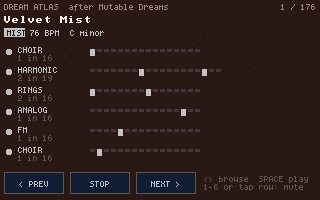
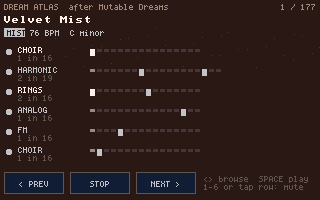
dreamatlas: Cassette Dreams 2
C major at 74, Dm9 G9 Cmaj9 Am9: a lazy rimshot with ghosts, a soft kick
ducking the mix, a warm upright, clean jazz guitar stabbing rootless 3-7-9
chords, a vibraphone 5 in 13 deep in the echo, crackle, and a more worn
cassette (wow .75, flutter .45, sat .55). Breakdowns swell the echo.

diff --git a/tools/carts/dreamatlas.c b/tools/carts/dreamatlas.c
@@ -9,7 +9,7 @@
   "lineage": "A port of the BIOME atlas from Mutable Dreams 1.4 (Kid Bunka / Christoph Link, free firmware for the M-VAVE FM-1, itself built on Mutable Instruments' Plaits/Rings/Elements). The 157 scenes are the upstream's own factory data (MIT), generated into runtime/dreamatlas/biomes.h; the sequencer (Euclid hits/length/rotate per track, seeded rolls, chord journeys, scale masks, the Lo-Fi kit) is ported line by line from app/dsp/dreams.cpp. The fifteen VOICES are NOT ported: each is mapped onto the nearest engine dreamengine already ships, which is the experiment.",
   "homage": "Mutable Dreams (Kid Bunka) / Mutable Instruments",
   "description": {
-    "summary": "157 small generative worlds from Mutable Dreams, plus a few of our own (a house jam, a tabla-and-guiro bazaar, Moon Meadow with tablas, a slow organ-and-upright brew, the Puppetmaker band, a CR-78 bossa, one that evolves by itself, a world-rhythm atlas, a slow modal jazz drone, a Reich-style phase piece, cool jazz in 5/4, an organ boogaloo, a frog pond at dusk, a tape-echo dub, a lo-fi cassette, a drill lullaby and Travis-picked electric guitar): six drifting Euclidean tracks, chord journeys and a Lo-Fi kit, played on dreamengine's own voices.",
+    "summary": "157 small generative worlds from Mutable Dreams, plus a few of our own (a house jam, a tabla-and-guiro bazaar, Moon Meadow with tablas, a slow organ-and-upright brew, the Puppetmaker band, a CR-78 bossa, one that evolves by itself, a world-rhythm atlas, a slow modal jazz drone, a Reich-style phase piece, cool jazz in 5/4, an organ boogaloo, a frog pond at dusk, a tape-echo dub, a lo-fi cassette, a drill lullaby, Travis-picked electric guitar and a second cassette): six drifting Euclidean tracks, chord journeys and a Lo-Fi kit, played on dreamengine's own voices.",
     "detail": "Each BIOME is one scene: six tracks, each a voice (Plaits-style drums, FM, analog, Rings and Elements resonators, a sine choir, a round bass...) with its OWN rhythm, k hits spread over n steps. The lengths differ (16, 19, 13...), so the tracks slide against each other and the loop takes minutes to come round. Some biomes walk a chord progression under it, some swap three tracks for a crunchy 16 kHz Lo-Fi drum kit. Browse in the curated order: neighbours are meant to feel genuinely different. The scenes are the original's factory data; the sounds are this engine's nearest voices, so it is a translation, not a copy.",
     "controls": "LEFT/RIGHT or the arrows: next / previous biome · SPACE or PLAY: start / stop · 1-6: mute a track · tap a track row to mute it"
   },
@@ -233,7 +233,12 @@ _Static_assert(M_CRKICK == 23 && M_NYLON == 26 && M_CRACKLE == 27 && M_EGTR == 2
 // offbeats ("l.j...l.h.j...h.", the 12th, 10th and octave), a STRUM opens up on the downbeat every two
 // bars, a brush sweeps 2 and 4, and two drones hold it: a low drawbar G and a soft saw D swelling in.
 // G C Em D, two bars each, 92 BPM, a little echo and room on the guitars. The thumb is the pulse.
-#define DA_OWN 19
+// CASSETTE DREAMS 2 is the sequel, not a copy: C major at 74 through Dm9 G9 Cmaj9 Am9 (a bar each), a
+// lazy rimshot with ghosts instead of a snare, a soft kick that ducks the mix (the lo-fi pump), a warm
+// upright, a clean jazz guitar stabbing rootless 3-7-9 chords, a vibraphone wandering 5 in 13 deep in
+// the echo, vinyl crackle, and a MORE worn cassette (wow .75, flutter .45, saturation .55). It starts
+// like a tape rolling (crackle, guitar, vibes); breakdowns drop the beat and bass and swell the echo.
+#define DA_OWN 20
 #define DA_ALL (DA_BIOMES + DA_OWN)
 static const DaBiome DA_OWN_BIOME[DA_OWN] = {
  {"Marmalade Jam",8,125,7,2,125125,0,0,650,200,100,0,120,0,0,0,380,300,{500,260,520,60},{
@@ -369,6 +374,13 @@ static const DaBiome DA_OWN_BIOME[DA_OWN] = {
   /* brush   (scrape)    */ {16,400,1000,500,800,200,0,16,0,900,60,420,0,1,0,1,0,0,850,100,0,0},
   /* low drone (harmonic)*/ {6,25,510,910,30,350,1,16,0,1000,43,500,0,2,600,1,0,800,775,0,1,250},
   /* high drone (saw)    */ {4,300,80,900,63,350,1,16,0,1000,62,540,0,2,800,1,0,300,600,0,1,300}}},
+ {"Cassette Dreams 2",9,74,0,2,74747,0,0,650,200,100,0,450,0,0,0,300,300,{500,250,450,80},{
+  /* kick    (Plaits)    */ {0,200,150,400,1000,0,0,16,0,980,33,500,0,1,0,1,0,150,850,100,0,0},
+  /* rim     (CR-78)     */ {24,0,0,0,380,120,0,16,0,980,90,450,0,1,0,1,0,0,850,100,0,0},
+  /* crackle (vinyl)     */ {27,0,0,0,95,0,7,11,0,500,60,520,0,1,0,2,0,0,850,100,0,0},
+  /* upright             */ {17,260,300,500,350,0,0,16,0,980,36,480,0,1,0,1,0,450,850,100,0,0},
+  /* guitar  (clean)     */ {19,500,550,550,210,200,0,16,0,950,48,560,0,1,0,1,0,150,850,100,0,0},
+  /* vibes   (bell)      */ {20,450,600,600,280,300,5,13,0,850,76,600,0,1,0,1,200,300,850,100,0,0}}},
 };
 // how each of our biomes JAMS (Playtime's drum jam): the order its layers enter, who may rest a
 // phrase, who a breakdown takes out, which track plays the phrase-end fill, which lets go before the one
@@ -463,6 +475,12 @@ static const JamCfg DA_OWN_JAM[DA_OWN] = {
       { "THUMB", "FINGERS", "STRUM", "BRUSH", "LOW DRONE", "HIGH DRONE" }, { 0, 3, 5, 4 }, 4, 2, {0},
       { "a...e...a...e...", "l.j...l.h.j...h.", "x...............", "....x.......x...", 0, 0 },   // Travis
       .delay16 = 3, .delay_fb = 300, .fx = 380, .dsend = { 80, 250, 250, 0, 0, 0 } },
+    { 1, 0x38, {2, 4, 5, 0, 1, 3}, {1, 2, 5, 4}, 1 << 0 | 1 << 1 | 1 << 3, -1, -1,  // Cassette Dreams 2: ii V I vi in C
+      { "KICK", "RIM", "CRACKLE", "UPRIGHT", "GUITAR", "VIBES" }, { 1, 4, 0, 5 }, 4, 1, {0},
+      { "X.......x.x.....", "....X...-...X..-", 0, "a.....e.a...g...", "X.....x...x.....", 0 },
+      { 2, 6, 8 },                                                  // the guitar rootless: 3 7 9
+      .delay16 = 3, .delay_fb = 500, .fx = 400, .dsend = { 0, 100, 0, 0, 250, 500 }, .dub = 1, .break_pct = 22,
+      .tape_wow = 750, .tape_flutter = 450, .tape_sat = 550 },     // a more worn cassette than the first
 };
 static const DaBiome *biome_row(int id) { return id < DA_BIOMES ? &DA_BIOME[id] : &DA_OWN_BIOME[id - DA_BIOMES]; }
 static int browse_id(int k) { return k < DA_BIOMES ? DA_BROWSE[k] : k; }   // ours come last, in order

diff --git a/docs/design/mutable-dreams.md b/docs/design/mutable-dreams.md
@@ -295,6 +295,12 @@ checked from the trace), a STRUM opens on the downbeat every two bars, a brush s
 drawbar G and a soft saw D drone under it. G C Em D two bars each at 92. A chord shift moves the
 fingers' degree pattern by semitones and quantizes it, which lands on chord tones for I, IV, vi and V.
 
+**Cassette Dreams 2** is the sequel, not a copy: C major at 74 through Dm9 G9 Cmaj9 Am9 a bar each, a
+lazy rimshot with ghosts instead of a snare, a soft kick ducking the mix (the lo-fi pump), a warm
+upright, a clean jazz guitar stabbing rootless 3-7-9 chords (F C E, B F A, E B D, C G B, from the trace),
+a vibraphone wandering 5 in 13 deep in the echo, the crackle, and a more worn cassette (wow .75,
+flutter .45, saturation .55). It starts like a tape rolling; breakdowns drop the beat and swell the echo.
+
 Mipo Band's triangle was a single pitch and got old; a lone BELL now wanders with the jump macro
 like a melody (a bell in a `pair`, Slow Brew's agogo, still keeps its two pitches). Note the cart
 clamps melodic notes to 24..96 (quantize), which had been pinning the triangle at 96.
